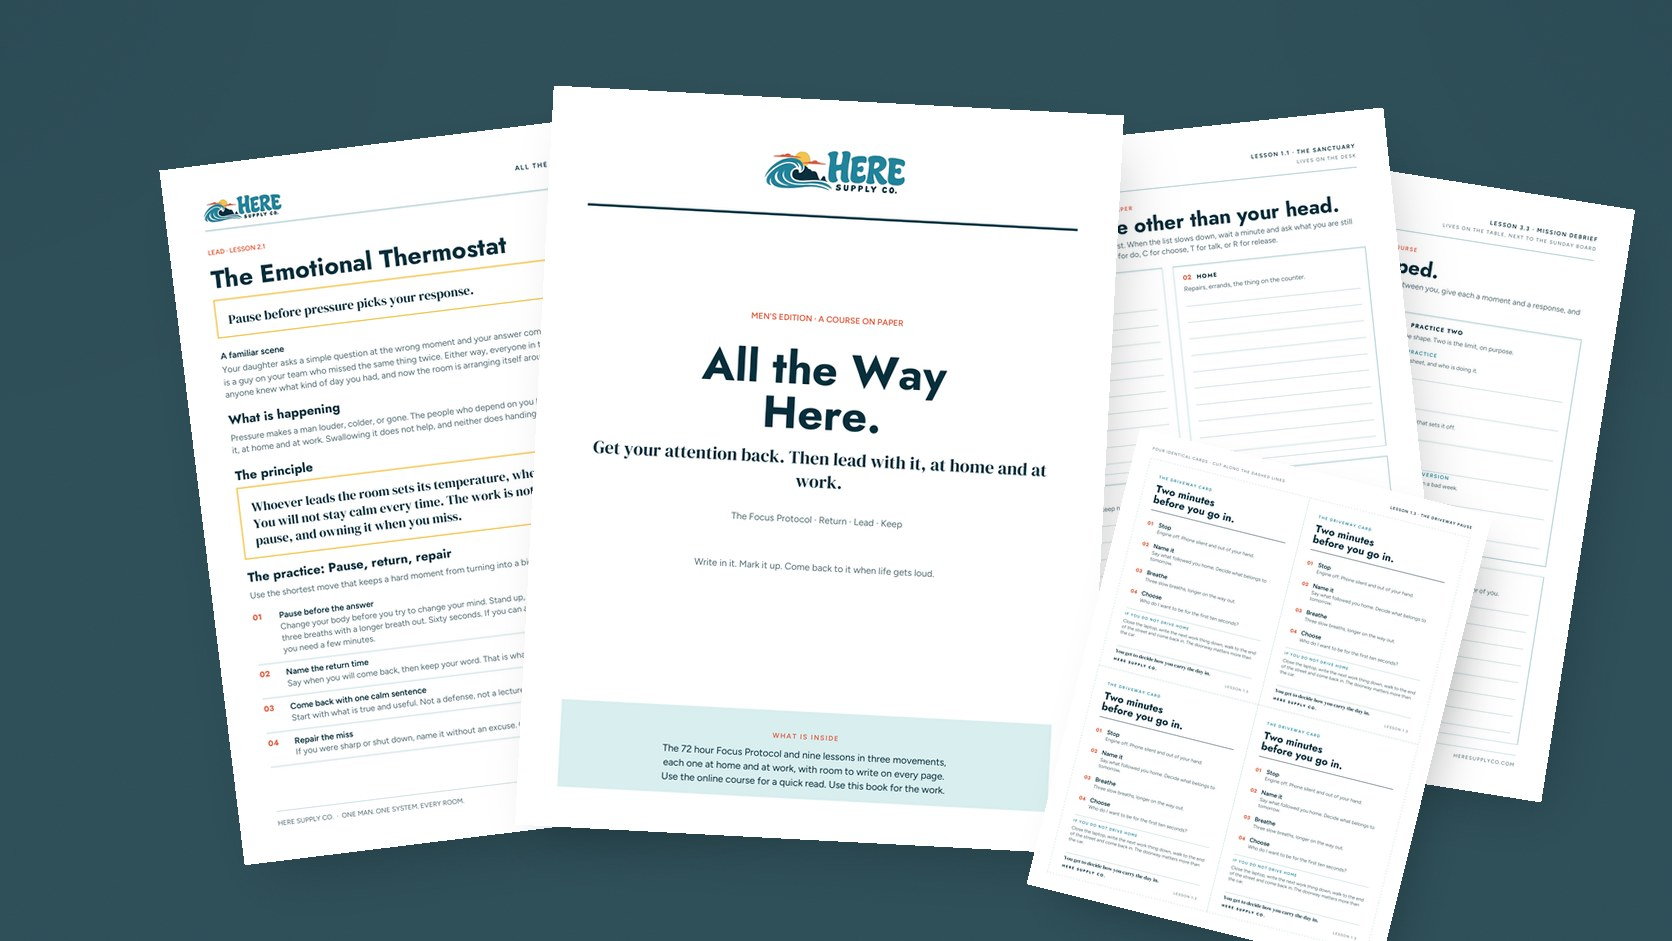
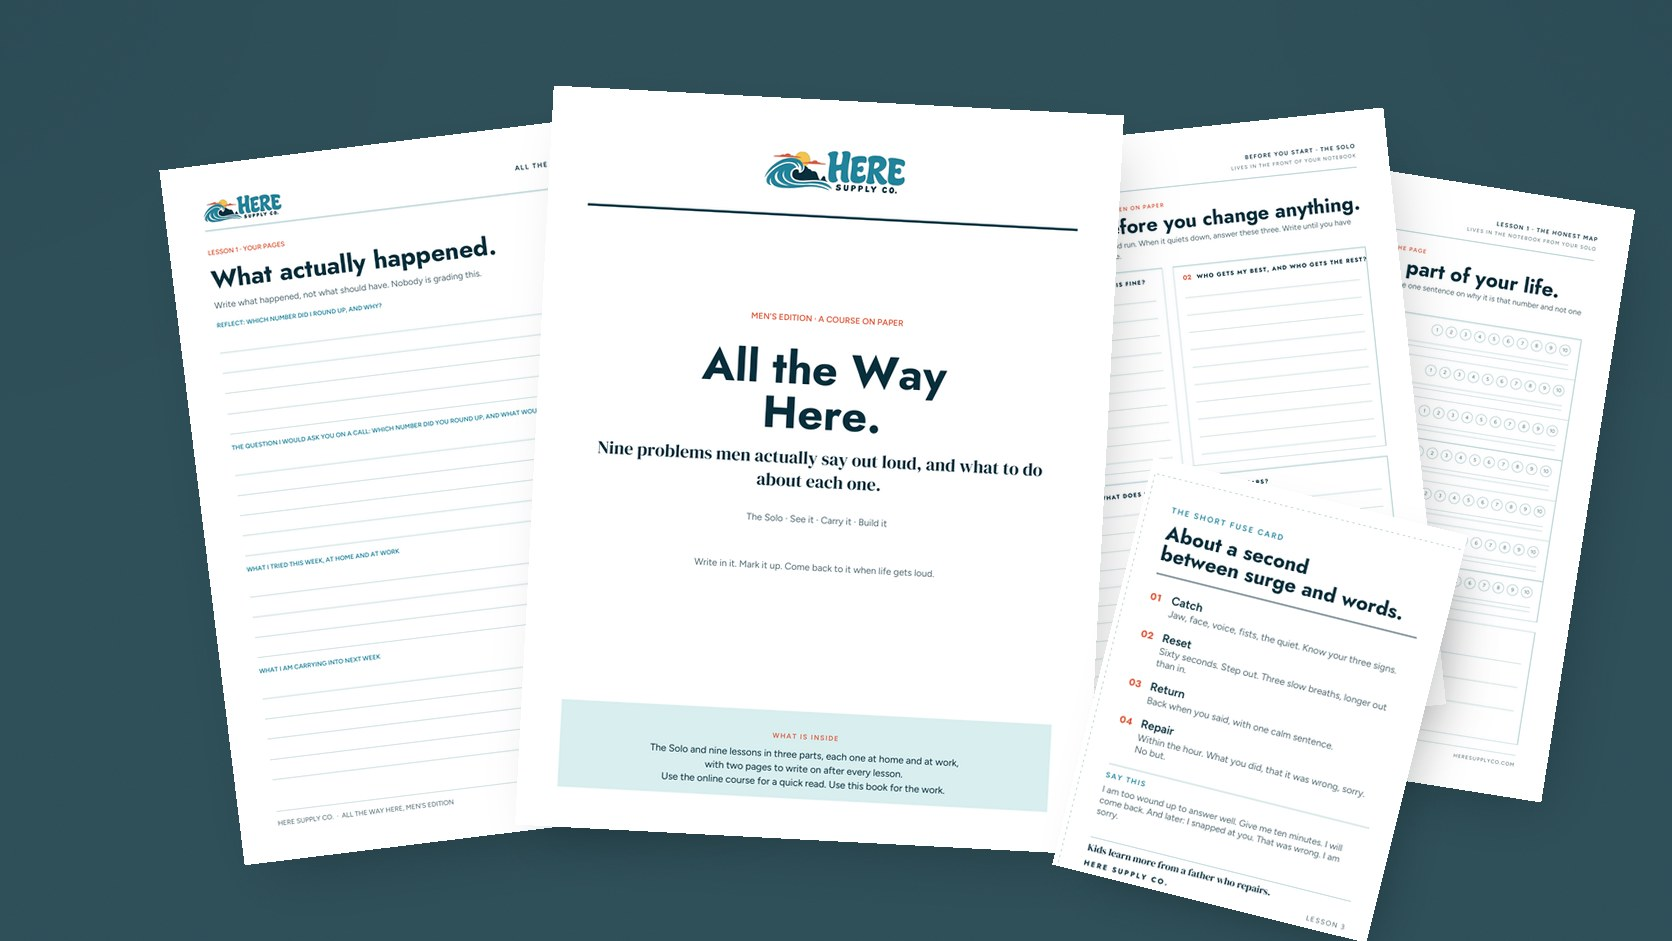
Men's pages: real photos throughout and a new course kit shot
Replaces the remaining AI photos on the men's landing, coaching, gift and
Focus Protocol pages with the real CC0 photos from the course, and rebuilds
the course kit product shot from the new course book and sheets.

Claude-Session: https://claude.ai/code/session_018C8krYLVbgMnKRFdWwiju4

diff --git a/app/men/coaching/page.tsx b/app/men/coaching/page.tsx
@@ -11,7 +11,7 @@ const title = "Coaching for Men Who Lead | Here Supply Co.";
 const description =
   "One on one coaching with Chris Avera for men who lead a family, a team, or a company. A 90 Day Intensive, then ongoing coaching month to month, with plain terms up front.";
 
-export const metadata: Metadata = menMeta({ title, description, path: "/men/coaching", image: { url: "/assets/course/photo/lesson-3-1-third-place-v3.jpg", width: 1672, height: 941, alt: "Three men talking beside a pickup after a ride" } });
+export const metadata: Metadata = menMeta({ title, description, path: "/men/coaching", image: { url: "/assets/men/course/council.jpg", width: 960, height: 640, alt: "Three men talking beside a pickup after a ride" } });
 
 const { intensive, ongoing, table } = MEN_OFFERS;
 
@@ -40,10 +40,10 @@ export default function MenCoaching() {
         </div>
         <div className={styles.heroMedia}>
           <img
-            src="/assets/course/photo/lesson-3-1-third-place-v3.jpg"
-            alt="Three men talking beside a pickup after a mountain bike ride"
-            width={1672}
-            height={941}
+            src="/assets/men/course/council.jpg"
+            alt="Two men sitting side by side on a bench in the woods"
+            width={960}
+            height={640}
           />
         </div>
       </section>

diff --git a/app/access/men-r7k2v9/focus/page.tsx b/app/access/men-r7k2v9/focus/page.tsx
@@ -26,7 +26,7 @@ export default function MenFocusAccess() {
         <p className="section-label">THE 72 HOUR FOCUS PROTOCOL</p><h2>Control the inputs.<br /><em>Choose the attention.</em></h2><p>Think of it as a three day experiment with your surroundings. Cut down what pulls at you, add enough friction to notice the reflex, and make a different choice when it shows up. Willpower has very little to do with it.</p>
       </section>
       <figure className="focus-human-story">
-        <img src="/assets/course/art/emotional-phone-at-game.jpg" alt="A parent looking at a phone while a child waits on a baseball field" width="1672" height="942" loading="lazy" decoding="async" />
+        <img src="/assets/men/course/drift.jpg" alt="Over the shoulder of a man on the couch, scrolling his phone" width="960" height="640" loading="lazy" decoding="async" />
         <figcaption><span>WHY THIS MATTERS</span><p>Keep the technology. Just stop giving the people who count on you whatever attention is left over.</p></figcaption>
       </figure>
       <section className="focus-moves">{FOCUS_MOVES.map((move) => <article key={move.number}><span>{move.number}</span><h2>{move.title}</h2><h3>{move.promise}</h3><p>{move.body}</p><aside><b>MAKE IT FIT</b>{move.exception}</aside></article>)}</section>

diff --git a/app/men/page.tsx b/app/men/page.tsx
@@ -40,10 +40,10 @@ export default function MenHome() {
         </div>
         <div className={styles.heroMedia}>
           <img
-            src="/assets/course/photo/movement-return-v1.jpg"
-            alt="A man setting his phone down on a table by the door before walking into the house"
-            width={1672}
-            height={941}
+            src="/assets/men/course/part-start.jpg"
+            alt="A man standing on a rock above a wide mountain valley"
+            width={960}
+            height={640}
           />
         </div>
       </section>
@@ -82,10 +82,10 @@ export default function MenHome() {
       <section className={styles.section}>
         <div className={styles.story}>
           <img
-            src="/assets/course/photo/emotional-phone-at-game-v1.jpg"
-            alt="A father looking at his phone on the bleachers while his daughter waits for him on the field"
-            width={1672}
-            height={941}
+            src="/assets/men/course/battles.jpg"
+            alt="A man at his desk with his head in his hands"
+            width={960}
+            height={640}
             loading="lazy"
           />
           <div>

diff --git a/app/men/meta.ts b/app/men/meta.ts
@@ -5,7 +5,7 @@ import type { Metadata } from "next";
  * so every men's page sets its own Open Graph and Twitter card; otherwise a
  * link texted to a man previews as "Attention Tools for Couples".
  */
-const DEFAULT_IMAGE = { url: "/assets/course/photo/movement-return-v1.jpg", width: 1672, height: 941, alt: "A man setting his phone down before walking into the house" };
+const DEFAULT_IMAGE = { url: "/assets/men/course/part-start.jpg", width: 960, height: 640, alt: "A man standing on a rock above a wide mountain valley" };
 
 export function menMeta({
   title,

diff --git a/app/gift/page.tsx b/app/gift/page.tsx
@@ -47,10 +47,10 @@ export default function GiftPage() {
         </div>
         <div className={styles.heroMedia}>
           <img
-            src="/assets/course/photo/lesson-1-1-sanctuary-v1.jpg"
-            alt="A man writing at the kitchen table early in the morning, coffee and phone set aside"
-            width={1672}
-            height={941}
+            src="/assets/men/course/honest-map.jpg"
+            alt="A man on the couch writing in a notebook"
+            width={960}
+            height={640}
           />
         </div>
       </section>
